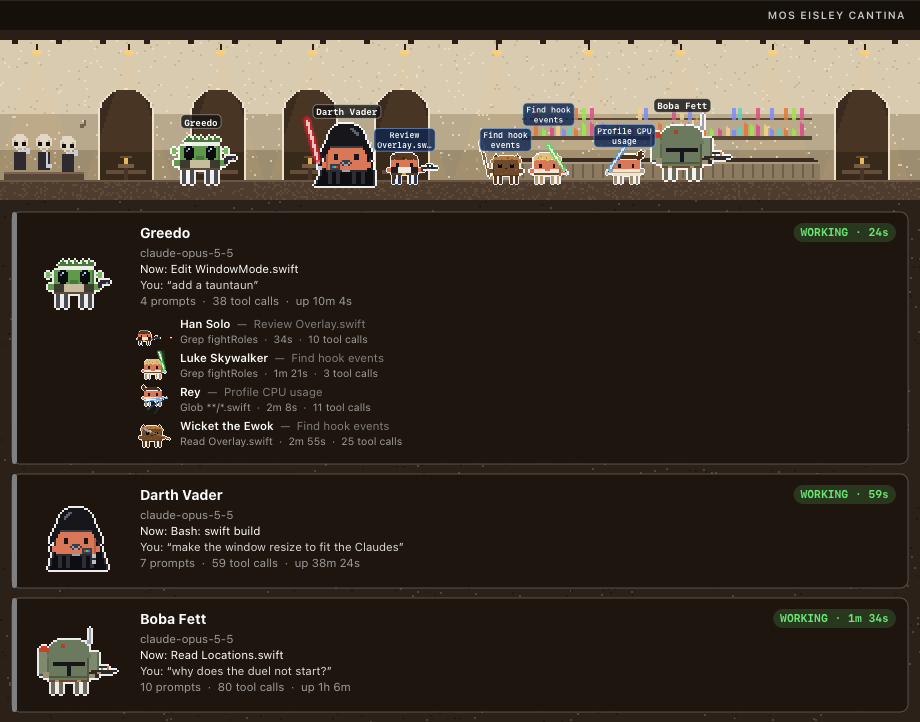
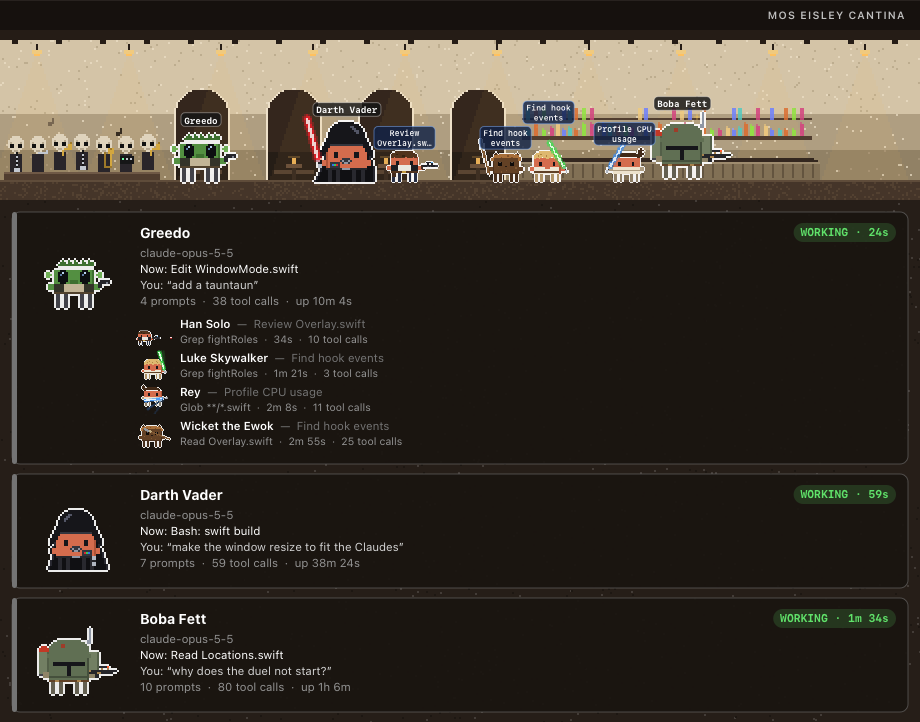
feat(cantina): all seven of Figrin D'an and the Modal Nodes
The cantina band grows from three Bith to the full seven, each with their film instrument (kloo horns, Fizzz, fanfars, bandfill, ommni box) and their own beat. README and docs images updated for the band and the recent hover, walk-in, idle and offline features.

Changed region(s): [[0.0, 0.1219, 0.7913, 0.2742], [0.8826, 0.1219, 0.9739, 0.2742], [0.0609, 0.7008, 0.1217, 0.7922]]

diff --git a/Sources/App/Cantina.swift b/Sources/App/Cantina.swift
@@ -36,12 +36,12 @@ enum Cantina {
         for x in stride(from: 6, to: w, by: 22) { c.rect(x, 5, 3, 2, ceiling) }
 
         // Regions the bar and the band stand occupy, so alcoves don't sit behind them.
-        let band = 0..<min(w, 44)
+        let band = 0..<min(w, bandWidth)
         let barStart = Int(Double(w) * 0.56), barEnd = min(w - 4, barStart + max(60, w / 3))
 
         // Arched booth alcoves along the back wall
         let archH = max(14, Int(Double(wallBottom) * 0.62))
-        var x = 50
+        var x = bandWidth + 6
         while x + 26 < w {
             if !(x + 26 > barStart - 4 && x < barEnd + 4) && !band.contains(x) {
                 drawAlcove(c, x: x, bottom: wallBottom, width: 26, height: archH)
@@ -120,15 +120,22 @@ enum Cantina {
         c.rect(x + r - 3, bottom - 12, 6, 1, glow.alpha(0.25))
     }
 
-    /// Figrin D'an and the Modal Nodes: three Bith bobbing to the beat on the band stage.
+    /// Width of the band stage: all seven Modal Nodes.
+    static let bandWidth = 82
+
+    /// Figrin D'an and the Modal Nodes — all seven Bith, each with their instrument, bobbing to the beat:
+    /// Figrin D'an and Lirin Car'n (kloo horns), Doikk Na'ts (Fizzz), Ickabel G'ont and Tedn Dahai (fanfars),
+    /// Nalan Cheel (bandfill) and Tech Mo'r (ommni box).
     static func drawBand(_ c: PixelCanvas, floorRows: Int, t: Double) {
         let base = c.h - floorRows - 4
-        let skin = C(0xE3D8C4), skinShade = C(0xBDB09A), robe = C(0x2E2A30), horn = C(0xC9CED6)
-        for i in 0..<3 {
-            let x = 6 + i * 12
-            let beat = Int((t * 2.2 + Double(i) * 0.33).truncatingRemainder(dividingBy: 1) * 2)   // on/off the beat
-            let bob = beat == 0 ? 0 : -1
-            c.oy = bob
+        let skin = C(0xE3D8C4), skinShade = C(0xBDB09A), robe = C(0x2E2A30)
+        let black = C(0x161618), silver = C(0xC9CED6), brass = C(0xD8B048), brassDark = C(0xA8842E)
+        enum Instrument { case kloo, fizzz, fanfar, bandfill, ommni }
+        let band: [Instrument] = [.kloo, .fizzz, .fanfar, .kloo, .bandfill, .ommni, .fanfar]
+        for (i, instrument) in band.enumerated() {
+            let x = 4 + i * 11
+            let beat = Int((t * 2.2 + Double(i) * 0.29).truncatingRemainder(dividingBy: 1) * 2)   // on/off the beat
+            c.oy = beat == 0 ? 0 : -1
             c.rect(x + 1, base - 9, 6, 9, robe)                              // robe
             c.pattern(x, base - 18, [
                 "..SSSS..",
@@ -141,16 +148,30 @@ enum Cantina {
                 "..SssS..",
                 "...SS...",
             ], ["S": skin, "s": skinShade, "E": C(0x101010)])                // the big Bith head
-            // instruments: a horn for two of them, the "fanfar" for the middle one
-            if i == 1 {
-                c.rect(x + 5, base - 9, 1, 6, horn); c.rect(x + 5, base - 3, 3, 2, horn)
-            } else {
-                c.rect(x + 4, base - 10, 4, 1, horn); c.rect(x + 7, base - 11, 2, 3, horn)
+            switch instrument {
+            case .kloo:                                                      // long black clarinet-like horn
+                c.rect(x + 4, base - 10, 1, 9, black)
+                for k in [base - 8, base - 6, base - 4] { c.px(x + 4, k, silver) }
+                c.rect(x + 3, base - 2, 3, 2, silver)                        // flared bell
+            case .fizzz:                                                     // small silver whistle, held sideways
+                c.rect(x + 4, base - 10, 5, 1, silver); c.px(x + 8, base - 11, silver)
+            case .fanfar:                                                    // brass horn, bell up and forward
+                c.rect(x + 5, base - 10, 1, 3, brass); c.rect(x + 6, base - 11, 2, 1, brass)
+                c.rect(x + 8, base - 13, 2, 3, brass); c.px(x + 9, base - 14, brassDark)
+            case .bandfill:                                                  // big curved bass horn
+                c.rect(x + 4, base - 10, 1, 7, brassDark)
+                c.rect(x + 4, base - 3, 4, 1, brassDark); c.rect(x + 7, base - 9, 1, 6, brass)
+                c.rect(x + 6, base - 12, 3, 3, brass); c.px(x + 7, base - 12, brassDark)
+            case .ommni:                                                     // ommni box with glowing keys
+                c.rect(x + 1, base - 8, 7, 4, black)
+                for k in 0..<3 { c.px(x + 2 + k * 2, base - 7, (Int(t * 4) + k) % 3 == 0 ? C(0x7AFFB0) : silver) }
             }
             c.oy = 0
         }
         // music notes drifting up
-        let f = (t / 1.6).truncatingRemainder(dividingBy: 1)
-        c.pattern(40, base - 22 - Int(f * 10), ["..N", "..N", "NNN", "NN."], ["N": C(0x3A2C22, 1 - f)])
+        for n in 0..<2 {
+            let f = (t / 1.6 + Double(n) * 0.5).truncatingRemainder(dividingBy: 1)
+            c.pattern(24 + n * 34, base - 22 - Int(f * 10), ["..N", "..N", "NNN", "NN."], ["N": C(0x3A2C22, 1 - f)])
+        }
     }
 }

diff --git a/README.md b/README.md
@@ -32,8 +32,9 @@ You run Claude Code in three terminals. One is thinking, one is waiting for your
 - 🗡 **Working?** Your Claude swings a lightsaber.
 - 💭 **Thinking?** A thought bubble.
 - ❗ **Needs you?** A red `!` — and if you ignore it for a minute, it starts jumping up and down.
-- 😴 **Done and idle?** zZz.
-- 🧑🚀 **Spawned subagents?** Rebels walk in next to it, each one labelled with *what it's doing* — and they fade out when they finish.
+- 😴 **Done and idle?** After a couple of minutes it sits down; after five it's asleep (zZz).
+- 🧑🚀 **Spawned subagents?** Rebels march in one by one, each labelled with *what it's doing* — and they fade out when they finish.
+- 🔍 **Want details?** Hover any character: status, how long, the tool it's running right now, your last prompt.
 - 🖱 **Click any of them** to jump straight to that session's terminal or VS Code tab.
 
 It sits on the bottom of your screen, above every window, and it's click-through everywhere except the characters. No dashboard to open, no tab to check. It's just… there, quietly having a war.
@@ -79,7 +80,7 @@ The scene is set **where the first Claude belongs** — the Death Star for Vader
   <img src="docs/window-hoth.png" alt="Window mode on Hoth" width="760">
 </p>
 
-22 hand-built locations, each with its own little animation — the cantina band plays, the sarlacc's tentacles wave, Theed's laser gates pulse, snow falls on Hoth, fog drifts across Dagobah:
+22 hand-built locations, each with its own little animation — Figrin D'an and the Modal Nodes play in the cantina (all seven of them, with their kloo horns, fanfars, bandfill and ommni box), the sarlacc's tentacles wave, Theed's laser gates pulse, snow falls on Hoth, fog drifts across Dagobah:
 
 <p align="center">
   <img src="docs/locations.png" alt="All 22 locations" width="760">
@@ -95,12 +96,17 @@ The window sizes itself to the number of Claudes, has a themed title bar, can st
 | 💭 thought bubble | thinking |
 | red `!` | waiting for your permission — **jumping** after a minute |
 | `?` | that session started before the hooks were installed; restart it for live status |
+| sitting on the floor | idle for 2+ minutes |
 | zZz | idle for 5+ minutes |
+| `?` and NOT REPORTING | the hooks stopped reporting for that session while it's clearly busy — restart it |
+| red OFFLINE banner | the hooks aren't installed (or the status file can't be read) — never silently stale |
 | bobbing yellow ◆ | the Claude whose terminal you're looking at right now |
 | matching label colours | a Claude and its agents share their project's colour |
 | label above the head | the project (Claudes) or the task (agents) |
 
 - **Several Claudes at once** — each gets its own villain and project label; sessions that predate the hooks are still found from the process table.
+- **Hover** any villain or agent for a details card; agents also show which Claude they work for.
+- **Newcomers walk in** from the side of the screen, one at a time, instead of popping up.
 - **Drag** the crew anywhere — they'll stand right on the bottom edge of either monitor. Bubbles and labels never go off-screen; if the line is too long, everyone walks over to make room.
 - **Click** a villain (or a card) to jump to the session: the exact tab in Terminal or iTerm2, or the right window — even the right *native tab* — in VS Code or Cursor.
 - **Menu bar helmet** and right-click give you everything: status, Show in Window, Location, Settings. Hold **⌘** for the Playground (put any villains and heroes on stage and watch them fight) and Demo Mode.

diff --git a/CHANGELOG.md b/CHANGELOG.md
@@ -1,5 +1,13 @@
 # Changelog
 
+## 2.16.0 — 2026-10-10
+
+### Added
+- The full cantina band: **Figrin D'an and the Modal Nodes**, all seven Bith. Figrin D'an and Lirin Car'n play kloo horns (black, silver keys, flared bells), Doikk Na'ts the Fizzz, Ickabel G'ont and Tedn Dahai fanfars, Nalan Cheel the tall curved bandfill, and Tech Mo'r the ommni box with blinking keys. Each bobs on their own beat. The stage is widened to 82 px and the booth alcoves move over.
+
+### Changed
+- README: describes the full band, hover cards, walk-ins, sitting idle, NOT REPORTING and the OFFLINE banner. `docs/locations.png` and `docs/window-cantina.png` are regenerated to show the band.
+
 ## 2.15.3 — 2026-10-10
 
 ### Fixed
